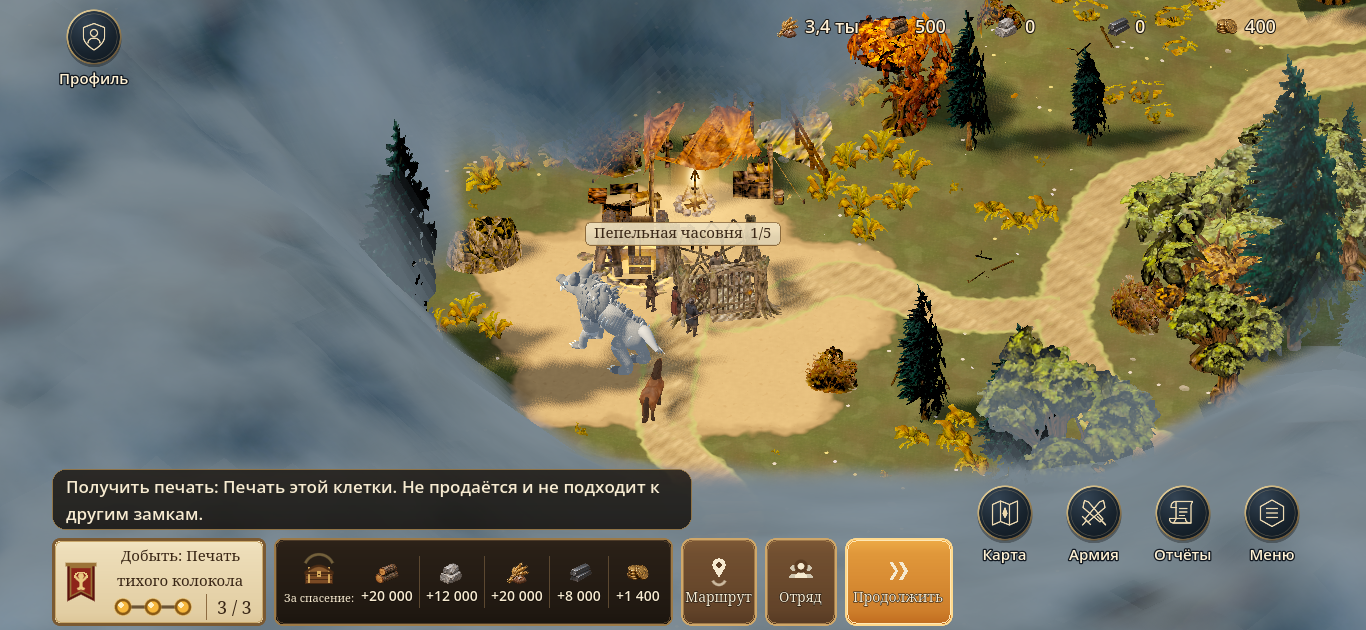
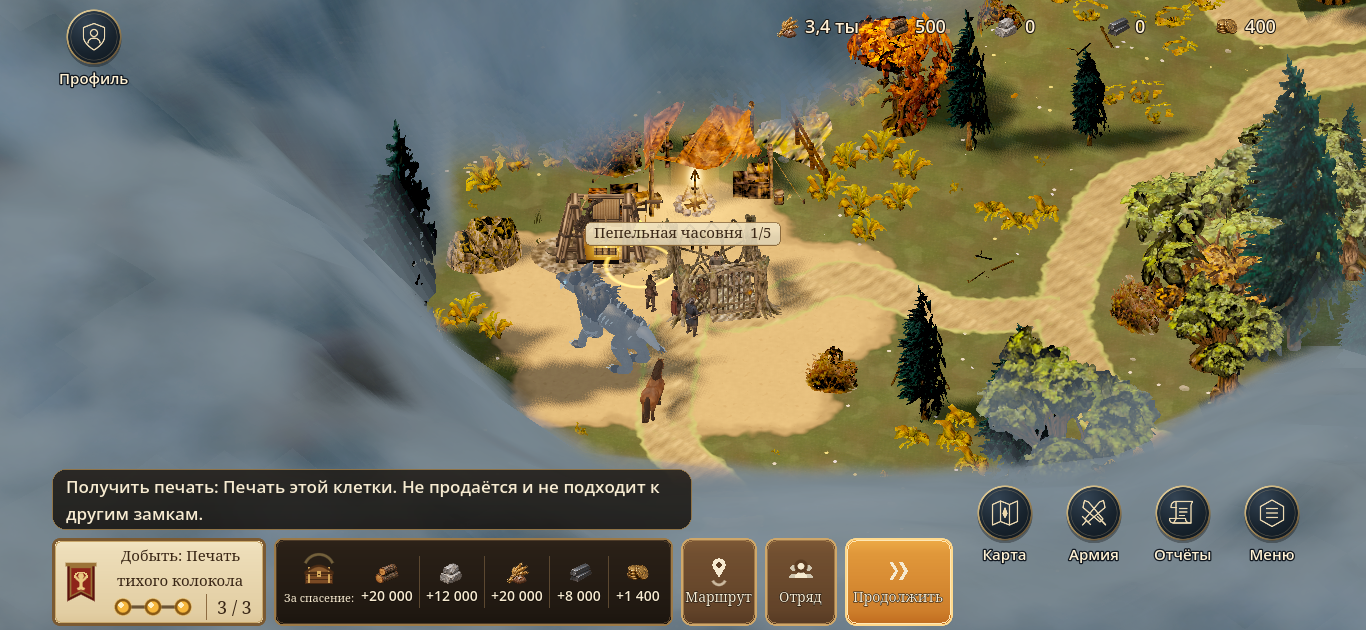
WIP: winch in-game before/after evidence and world API notes from the forest agent
Claude-Session: https://claude.ai/code/session_01HwWPLNsZoT8MDs8G9gKuWc

diff --git a/godot/project/src/forest_rescue/WORLD_API.md b/godot/project/src/forest_rescue/WORLD_API.md
@@ -122,6 +122,25 @@ LOD), `fog_culled` (instances removed because they stand deeper than 3 m inside 
   - Gameplay layer (forest_game.gd): while the squad or an escort is under way the client reads `/api/state`
     every 1.2 s of server time, so each committed checkpoint reveal dissolves on its own (~2 s per cell)
     instead of all at once on arrival.
+* v3.7 (2026-11-21, winch material path + close-zoom foliage — no gameplay API change, API_VERSION unchanged):
+  - Winch (lf_mechanism_winch_sequence, props v2 iter 24) rebuilt on the props v2 material path
+    (`forest_rescue/blender/assets/props/v2/pv2mat.py`, `mattex.py`; a module opts in with `MATERIAL_MODE`):
+    modelled geometry (25 / 16-tooth gears with hubs and spokes, bolts, forged crank, turned grip, modelled grass
+    blades), one seamless painted-style tile per material (wood, iron, rope, stone, brass, ground, grass, void;
+    `<id>_<material>_c.jpg` next to the GLB, VRAM compressed), UVs box-mapped in metres (TEXCOORD_0, repeat),
+    no alpha, no painting projection. The projection atlases `<id>_c.jpg / _n.png / _lod1_c.jpg / _lod2_c.jpg`
+    are gone. Same nodes and clips; new node `pit_void` (dark pit mouth). In `lf_rope_release` the big gear turns
+    with the drum and the pinion the other way at 25/16 = 1.5625 (crank 1:1 on the axle).
+  - Meta `vertexAO: true` (new, additive): COLOR_0.a = sqrt((F - 0.42) / 0.58), F = baked ambient occlusion x soft
+    sun shadow; `ActorRig.apply_look` then builds the painted material with `use_ao` for surfaces that carry
+    vertex colours (never wind). Assets without the flag are unchanged.
+  - ActorDirector: the winch's big_gear / pinion are sampled with the drum in the stable and live poses;
+    `device_spot()` stands the winch screen-left of its key spot (+1 m back) when the site's cage would hide it
+    from the city camera; `device_focus()` is the mechanism UI camera target (winch zoom 24); `pit_void` is lifted
+    0.29 m onto the terrain; the site name tag hides while a mechanism UI of that site is open.
+  - QA: `qa_forest_perf.gd` look segments `t_winch_ui` (mechanism UI) and `t_bush_z120`; `--tint-kinds` (with
+    `--save-frames`) also saves `<segment>_tint.png` with every forest MultiMesh drawn flat in its kind's colour.
+
 * v3.6 (2026-11-21, phone memory + hot paths — no gameplay API change, API_VERSION unchanged):
   - Every 3D texture under `assets/forest_rescue/**` (187, incl. the shipped impostor atlas) imports VRAM
     Compressed, high quality (BPTC desktop / ASTC 4x4 iOS), mipmaps on, normal maps with the normal-map setting
